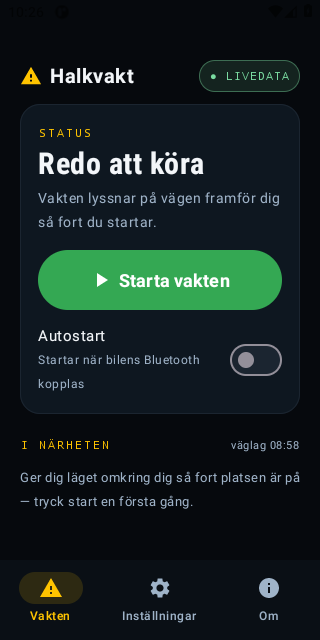
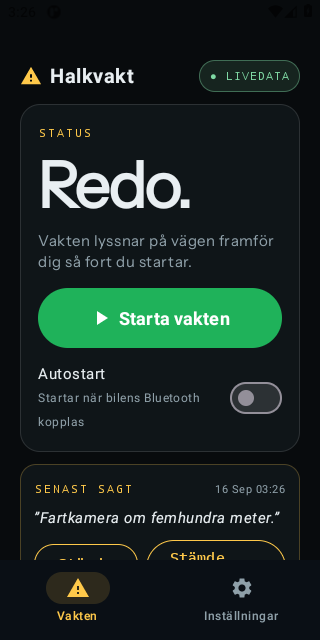
S4 steg 2: produktboken med farska skarmbilder (facitknapparna under Senast sagt, betatest-brytaren) + loftet ordagrant
Fotostudion 16/9 pa grenen (android.yml gron: JVM-tester, APK, AAB,
emulator). Om-kolumnen pekar nu pa shot-6 (slutet av Installningar med
betatest-brytaren och borjan av Om); shot-3 var alltid Installningars topp.

diff --git a/docs/PRODUKTBOK.md b/docs/PRODUKTBOK.md
@@ -25,10 +25,19 @@ grundläget — pratar den, betyder det något.
 
 | Vakten | Inställningar | Om (nu sist i Inställningar) |
 |---|---|---|
-| ![Vakten](produktbok/shot-1-vakten.png) | ![Inställningar](produktbok/shot-2-installningar.png) | ![Om](produktbok/shot-3-om.png) |
+| ![Vakten](produktbok/shot-1-vakten.png) | ![Inställningar](produktbok/shot-2-installningar.png) | ![Om](produktbok/shot-6-betatest.png) |
 
-*(Bilderna är Android v0.3.0. iOS 0.3.5 har skinnet v3 — se avsnittet nedan. Om-fliken
-finns inte längre: två flikar, Om är sista avsnittet i Inställningar.)*
+*(Bilderna är Android, fotostudion 16/9. iOS 0.3.5 har skinnet v3 — se avsnittet nedan. Om-fliken
+finns inte längre: två flikar, Om är sista avsnittet i Inställningar — bilden visar slutet av
+Inställningar med betatest-brytaren och början av Om.)*
+
+### Facitknappen (betatestet, S4 — Android 16/9)
+
+| Senast sagt med knapparna | Betatest-brytaren i Inställningar |
+|---|---|
+| ![Senast sagt](produktbok/shot-1-vakten.png) | ![Betatest](produktbok/shot-6-betatest.png) |
+
+*(Fotostudion 16/9. Knapparna syns bara när betatestet är påslaget och varningen bär ett id.)*
 
 ## Skinnet (v3, iOS 0.3.3 →)
 
@@ -101,10 +110,15 @@ avstånd, med riktning. För nyfikenhet före avfärd — under körning sköter
 allt.
 
 **⚙ Inställningar** — förvarningsavståndet (hur långt i förväg rösten ska
-tala, skjutreglage), röst av/på per kategori.
+tala, skjutreglage), röst av/på per kategori. Och betatestets brytare *Svara på varningarna*
+— **av tills du själv slår på den** — med texten om exakt vad som skickas (se Om).
 
 **ℹ Om** (sista avsnittet i Inställningar) — löftet i klartext: *"Din position lämnar
-aldrig telefonen. Vi samlar in: ingenting."* Plus ärlighetsraden: *"Varnar vid
+aldrig telefonen. All matchning mot vägdata sker lokalt i appen. Inget konto, ingen spårning."*
+Och sedan 16/9 undantaget, ordagrant som i appen (Axels krav, DECISIONS #196): *"Undantaget är
+betatestet, om du själv slår på det: då skickas varningens id, klockslag och ditt svar
+(Stämde / Stämde inte) — det säger ungefär var du var när rösten talade. Inget annat."*
+Plus ärlighetsraden: *"Varnar vid
 Trafikverkets mätstationer och rapporterade väglag — mellan stationerna är vägen
 oövervakad."* Och attributionen: Trafikverket (CC0), Polisen, SMHI, Fintraffic (CC BY 4.0),
 broar © OpenStreetMap-bidragsgivare (ODbL).
@@ -332,7 +346,8 @@ i stället för att det *fungerade*. Instrumenten är byggda. Vintern är facit.
 ## Vad appen inte gör
 
 Ingen prognos (varnar på uppmätt läge, inte gissningar), tyst mellan
-mätstationerna, ingen ködetektion ännu (kommer som uppdatering 1). Hela ärliga
+mätstationerna, ingen ködetektion ännu (kommer som uppdatering 1). Skickar ingenting om
+dig — med ett enda undantag som du själv slår på: betatestets facitsvar (se Om). Hela ärliga
 listan: [SYSTEM.md §4](SYSTEM.md).
 
 ## iOS då?
@@ -423,6 +438,16 @@ visas — säg ja, annars uteblir bannern (rösten talar ändå).
 Hemskärmen visar förra körningens sista replik med datum och tid, även när vakten är av.
 Har rösten aldrig behövt säga något står det så — tystnad är en funktion.
 
+**Facitknappen (betatestet, 16/9):** under repliken två knappar, *Stämde* och *Stämde inte*.
+Ingen fritext — inte i en bil. Svaret sparas i telefonen och skickas när bilen stått stilla en
+halv minut, eller när appen öppnas; aldrig under körning. Det som skickas är varningens id,
+klockslaget och svaret, inget annat. Knapparna finns bara om du slagit på betatestet i
+Inställningar. Ändrar du dig ersätter det nya svaret det gamla. (Facitet är beslutet i DECISIONS
+#186 — betatestare med samtycke i känd krets; löftet till allmänheten är orört.)
+
+*Rättat samtidigt:* kortet visade den äldsta sparade repliken, inte den senaste — synligt först
+när knappen skulle sitta på rätt varning.
+
 ## Versionerna (två veckor, sex byggen)
 
 | Version | Datum | Vad |
@@ -434,6 +459,7 @@ Har rösten aldrig behövt säga något står det så — tystnad är en funktio
 | 0.3.4 (7) | 2/9 | Kameratoleransen 60°, vägnumret i rösten. Byggd med rött kontrakt — *ogiltig*. |
 | 0.3.5 (8) | 2/9 | Kamerariktningen vänd 180°. Första bygget med grönt kontrakt i alla tre motorer. |
 | *nästa* | — | Prioritetsmedveten spärr, golv 10 s (#165). Ligger på main, väntar på arkivering. |
+| *nästa (Android)* | 16/9 | Facitknappen *Stämde / Stämde inte* + betatest-brytaren (S4, DECISIONS #202). Senast sagt visar rätt rad. |
 
 Android ligger kvar på 0.3.1 med gammalt skinn. Skinnet v3 är portat och bevisat i
 emulator; Play-lanseringen väntar på tolv testare.
